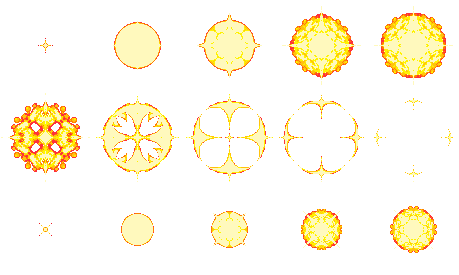
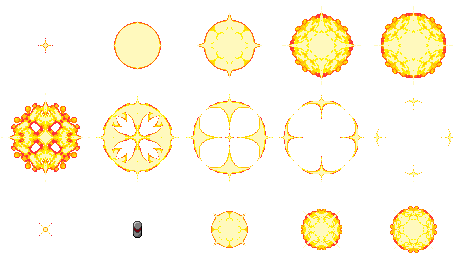
Fire enemy now dies with press of button. Player character gets killed if they arent moving and an enemy walks into them.

Changed region(s): [[0.244, 0.7564, 0.3355, 0.9018]]

diff --git a/Project4/SDLProject/main.cpp b/Project4/SDLProject/main.cpp
@@ -19,9 +19,9 @@
 
 #define FLOOR_COUNT 20 //determine how many floor tiles
 #define WALL_COUNT (14*2) //determines how tall walls are; should be even value
-#define PLATFORM_COUNT (FLOOR_COUNT*2)+WALL_COUNT
-#define ENEMY_COUNT 4
-#define FIREBALL_MAX 5
+#define PLATFORM_COUNT (FLOOR_COUNT*2)+WALL_COUNT+3
+#define ENEMY_COUNT 3
+//#define FIREBALL_MAX 5
 
 enum GameMode { START, PLAY, END };
 
@@ -152,6 +152,7 @@ void Initialize() {
     GLuint platformTextureID = LoadTexture("Tileset.png");
     float locationPlatform = -4.75f;
     float locationWall = -3.0f;
+    float locationMid = -0.5;
 
     int* floorIndex = new int[1]{ 1 };
     int* leftWallIndex = new int[1]{ 12 };
@@ -181,10 +182,15 @@ void Initialize() {
             state.platforms[i].animIndices = rightWallIndex;
             state.platforms[i].position = glm::vec3(4.8f, locationWall, 0);
         }
-        else { //draw ceiling
+        else if (i < FLOOR_COUNT*2 + WALL_COUNT) { //draw ceiling
             locationPlatform -= terrainScale;
             state.platforms[i].animIndices = floorIndex;
             state.platforms[i].position = glm::vec3(locationPlatform, 3.75, 0);
+        }
+        else { //draw in other platforms
+            state.platforms[i].animIndices = floorIndex;
+            state.platforms[i].position = glm::vec3(locationMid, -2.1f, 0);
+            locationMid += terrainScale;
         }
 
         state.platforms[i].Update(0, NULL, 0, NULL); //update platforms once to get them to move to set position
@@ -202,7 +208,8 @@ void Initialize() {
     state.button->width = 0.1;
     state.button->position = glm::vec3(4, -3.2f, 0);
     state.button->Update(0, NULL, 0, NULL);
-    state.button->canMove = false; //will 
+    //state.button->senseFor = &state.enemies[2];
+    state.button->canMove = false;
     
     //Initialize Enemies
     state.enemies = new Entity[ENEMY_COUNT];
@@ -248,7 +255,7 @@ void Initialize() {
     //fire enemy - shoots fireballs
     GLuint fireTextureID = LoadTexture("explosionTrp.png");
     state.enemies[2].enemyType = FIRE;
-    state.enemies[2].enemyState = IDLE;
+    state.enemies[2].enemyState = ATTACKING;
     state.enemies[2].textureID = fireTextureID;
     state.enemies[2].textureCols = 5;
     state.enemies[2].textureRows = 3;
@@ -261,23 +268,21 @@ void Initialize() {
     state.enemies[2].animFrames = 4;
 
     state.enemies[2].position = glm::vec3(0);
-    state.enemies[2].senseRadius = 3.0f;
+    state.enemies[2].senseFor = state.button;
 
     //fireballs for fire enemy
-    state.enemies[3].enemyType = FIREBALL;
-    state.enemies[3].textureID = fireTextureID;
-    state.enemies[3].textureCols = 5;
-    state.enemies[3].textureRows = 3;
-    state.enemies[3].height = 0.2f;
-    state.enemies[3].width = 0.2f;
-
-    state.enemies[3].animUp = new int[1]{ 0 };
-    state.enemies[3].animIndices = state.enemies[3].animUp;
-    state.enemies[3].animFrames = 1;
-
-    state.enemies[3].position = glm::vec3(0, 0, 0);
-    state.enemies[3].movement = glm::vec3(0);
-    state.enemies[3].senseRadius = 3.0f;
+    //state.enemies[3].enemyType = FIREBALL;
+    //state.enemies[3].textureID = fireTextureID;
+    //state.enemies[3].textureCols = 5;
+    //state.enemies[3].textureRows = 3;
+    //state.enemies[3].height = 0.2f;
+    //state.enemies[3].width = 0.2f;
+    //state.enemies[3].animUp = new int[1]{ 0 };
+    //state.enemies[3].animIndices = state.enemies[3].animUp;
+    //state.enemies[3].animFrames = 1;
+    //state.enemies[3].position = glm::vec3(0, 0, 0);
+    //state.enemies[3].movement = glm::vec3(0);
+    //state.enemies[3].senseRadius = 3.0f;
 
     for (int i = 0; i < ENEMY_COUNT; i++) {
         state.enemies[i].entityType = ENEMY;
@@ -294,7 +299,7 @@ void Initialize() {
     state.player->height = 0.8f;
     state.player->width = 0.75f;
     state.player->senseRadius = 0.8f;
-    state.player->jumpHeight = 5.0f;
+    state.player->jumpHeight = 5.5f;
 
     state.player->animRight = new int[4]{ 3, 7, 11, 15 };
     state.player->animLeft = new int[4]{ 1, 5, 9, 13 };
@@ -327,7 +332,7 @@ void ProcessInputStart() {
                 state.enemies[0].enemyState = ATTACKING;
                 state.enemies[0].movement = glm::vec3(-1, 0, 0);
                 state.enemies[1].senseFor = state.player; 
-                state.enemies[2].senseFor = state.player;
+                state.enemies[2].senseFor = state.button;
                 state.player->isActive = true;
                 break;
             case SDLK_SPACE:
@@ -547,6 +552,8 @@ void RenderEnd() {
     for (int i = 0; i < ENEMY_COUNT; i++) {
         state.enemies[i].Render(&program);
     }
+
+    state.enemies[2].isActive = false;
 
     state.button->Render(&program);
     state.player->Render(&program);

diff --git a/Project4/SDLProject/Entity.cpp b/Project4/SDLProject/Entity.cpp
@@ -10,7 +10,38 @@ Entity::Entity() {
     movement = glm::vec3(0);
     speed = 0;
 
+    jump = false;
+    jumpHeight = 0;
+
+    width = 1.0f;
+    height = 1.0f;
+    scale = 1.0f;
+    senseRadius = 0.0f;
+    senseFor = NULL;
+
+    isActive = true; //is visible / alive
+    canMove = true; //can't move, doesn't need to be updated
+    canUse = true; //if fireballs can be shot, and button can be pressed
+
+    collidedTop = false;
+    collidedBottom = false;
+    collidedLeft = false;
+    collidedRight = false;
+    collidedWith = NULL;
+
     modelMatrix = glm::mat4(1.0f);
+
+    animRight = NULL;
+    animLeft = NULL;
+    animUp = NULL;
+    animDown = NULL;
+
+    animIndices = NULL;
+    animFrames = 0;
+    animIndex = 0;
+    animTime = 0;
+    textureCols = 0;
+    textureRows = 0;
 }
 
 bool Entity::CheckCollision(Entity* other) {
@@ -56,18 +87,17 @@ void Entity::CheckCollisionY(Entity* objects, int objectCount, Entity* button) {
             velocity.y = 0;
             collidedTop = true;
             collidedWith = button;
-
-            button->animIndices = new int[1]{ 1 };
             button->canUse = false;
+            button->animIndices = new int[1]{ 1 };
         }
         else if (velocity.y < 0) {
             position.y += yOverlap;
             velocity.y = 0;
             collidedBottom = true;
             collidedWith = button;
-
-            button->animIndices = new int[1]{ 1 };
             button->canUse = false;
+            button->animIndices = new int[1]{ 1 };
+            
         }
     }
 }
@@ -86,7 +116,7 @@ void Entity::CheckCollisionX(Entity* objects, int objectCount) {
                 collidedRight = true;
                 collidedWith = object;
             }
-            else if (velocity.x < 0) {
+            else { //if (velocity.x < 0) {
                 position.x += xOverlap;
                 velocity.x = 0;
                 collidedLeft = true;
@@ -132,7 +162,6 @@ glm::vec3 Entity::ShootFire() {
 void Entity::Slime() {
     switch (enemyState) {
         case IDLE:
-
             break; //currently do nothing
         case ATTACKING:
             if (collidedLeft) {
@@ -145,7 +174,6 @@ void Entity::Slime() {
             }
             break;
     }
-    
 }
 
 void Entity::Bat() {
@@ -173,17 +201,16 @@ void Entity::Bat() {
 }
 
 void Entity::Fire() {
+    if (!senseFor->canUse) { 
+        enemyState = DEAD; 
+    }
+    std::cout << senseFor;
     switch (enemyState) {
-        case IDLE: //doesn't shoot
-            CheckSense(senseFor);
-            
-            break;
-        case ATTACKING: //shoots randomly when player is in range
+        case ATTACKING: //shoots randomly
             ShootFire();
-            CheckSense(senseFor);
             break;
-        case DEAD:
-            //changes appearance
+        case DEAD: //button pressed, appearance change
+            animIndices = animLeft;
             break;
     }
 }
@@ -228,8 +255,7 @@ void Entity::CheckEnemyCollision(Entity* enemies, int enemyCount) {
 
 void Entity::Update(float deltaTime, Entity* platforms, int platformCount, Entity* button)
 {
-    if (!isActive) { return; } //don't do anything if not active
-    if (!canMove) { return; } //can't move, doesn't need to be updated
+    if (!isActive || !canMove) { return; } //don't do anything if not active
 
     collidedTop = false;
     collidedBottom = false;
@@ -239,6 +265,11 @@ void Entity::Update(float deltaTime, Entity* platforms, int platformCount, Entit
     if (animIndices != NULL) {
         if (glm::length(movement) != 0 || entityType != PLAYER) {
             animTime += deltaTime;
+
+            if (animIndex == 3 && animIndices == animLeft && enemyType == FIRE) {
+                isActive = false;
+                return;
+            }
 
             if (animTime >= 0.25f)
             {

diff --git a/Project4/SDLProject/Entity.h b/Project4/SDLProject/Entity.h
@@ -28,40 +28,40 @@ public:
     glm::vec3 movement;
     float speed;
 
-    bool jump = false;
-    float jumpHeight = 0;
+    bool jump;
+    float jumpHeight;
 
-    float width = 1.0f;
-    float height = 1.0f;
-    float scale = 1.0f;
-    float senseRadius = 0.0f;
-    Entity* senseFor = NULL;
+    float width;
+    float height;
+    float scale;
+    float senseRadius;
+    Entity* senseFor;
 
-    bool isActive = true; //is visible / alive
-    bool canMove = true; //can't move, doesn't need to be updated
-    bool canUse = true; //if fireballs can be shot, and button can be pressed
+    bool isActive;
+    bool canMove;
+    bool canUse;
 
-    bool collidedTop = false;
-    bool collidedBottom = false;
-    bool collidedLeft = false;
-    bool collidedRight = false;
-    Entity* collidedWith = NULL;
+    bool collidedTop;
+    bool collidedBottom;
+    bool collidedLeft;
+    bool collidedRight;
+    Entity* collidedWith;
 
     GLuint textureID;
 
     glm::mat4 modelMatrix;
 
-    int* animRight = NULL;
-    int* animLeft = NULL;
-    int* animUp = NULL;
-    int* animDown = NULL;
+    int* animRight;
+    int* animLeft;
+    int* animUp;
+    int* animDown;
 
-    int* animIndices = NULL;
-    int animFrames = 0;
-    int animIndex = 0;
-    float animTime = 0;
-    int textureCols = 0;
-    int textureRows = 0;
+    int* animIndices;
+    int animFrames;
+    int animIndex;
+    float animTime;
+    int textureCols;
+    int textureRows;
 
     Entity();
 
